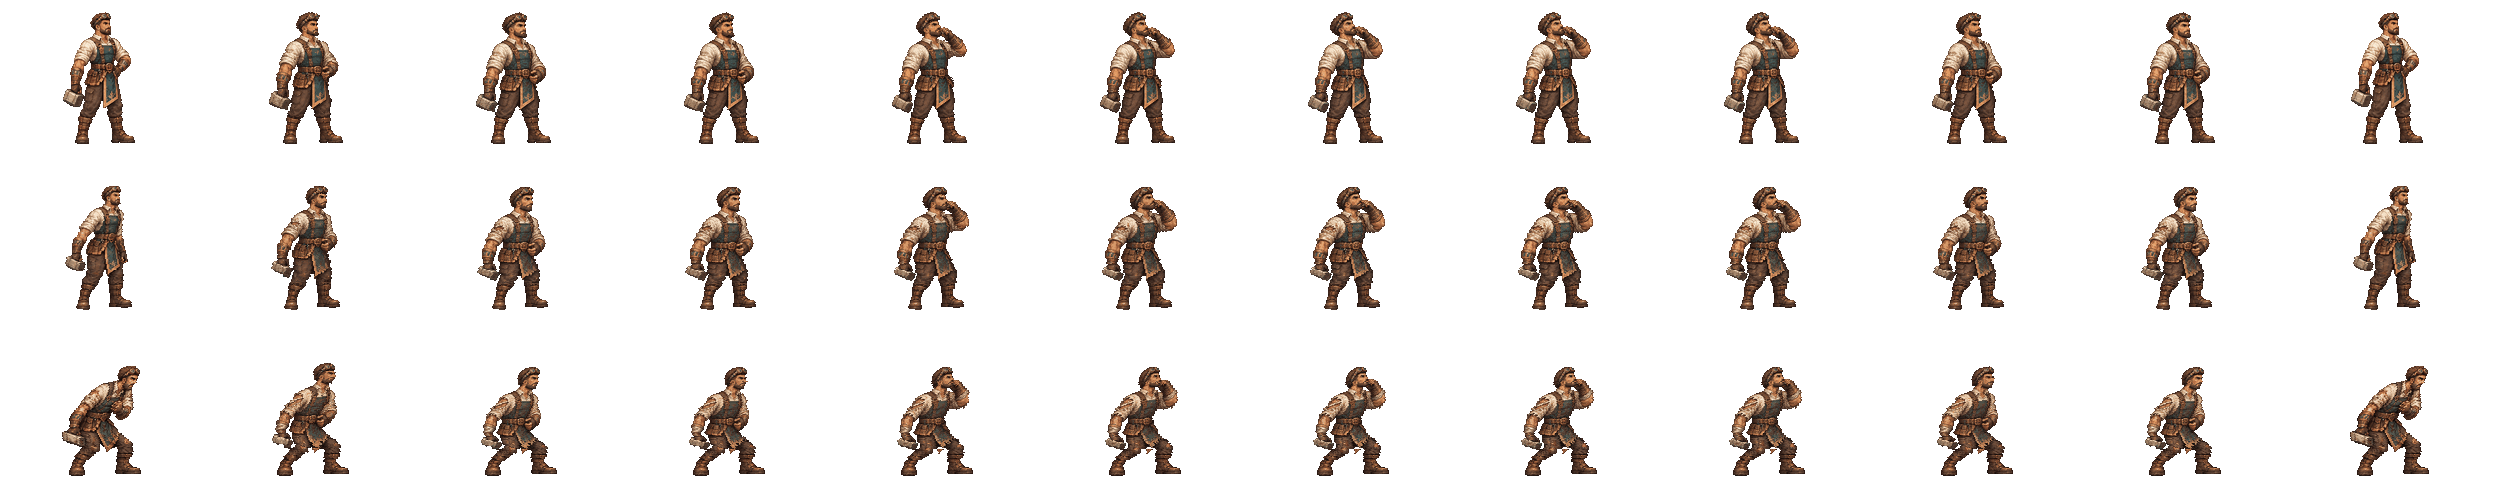
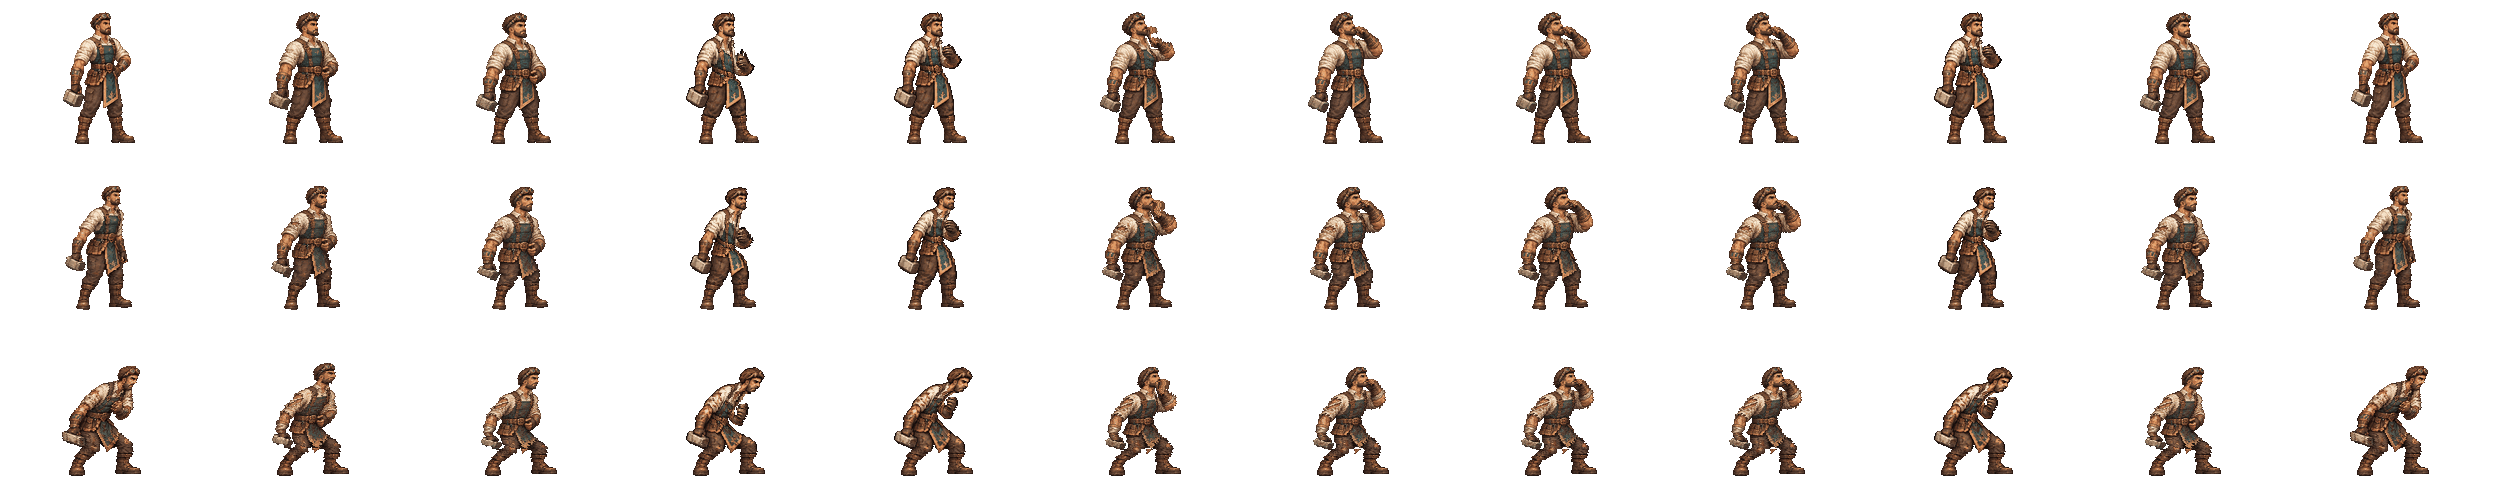
Keep held bottles on the painted hand throughout each sip
Register optional chest-height and quarter-height grip exposures for the Artificer wardrobe. Pin the bottle neck to each cel as its tilt settles, validate the published support masters and exercise mirrored grips in the desktop arena.

diff --git a/e2e/desktop-props.spec.js b/e2e/desktop-props.spec.js
@@ -3,7 +3,7 @@ import { applyCommand, createMatch, sandboxEdit } from '../src/game/index.js';
 
 const classes = ['guardian', 'berserker', 'chronomancer', 'alchemist'];
 
-function turn(count, index, role, action, band) {
+function turn(count, index, role, action, band, skinId) {
   const players = Array.from({ length: count }, (_, i) => ({
     id: 'seat-' + i, name: 'Fighter ' + i, classId: i === index ? role : classes[i % 4], bot: false,
   }));
@@ -14,6 +14,7 @@ function turn(count, index, role, action, band) {
     if (state.activeId === viewerId) break;
   }
   if (action !== 'scavenge') state = sandboxEdit(state, { type: 'grant', playerId: viewerId, rewardId: action });
+  if (skinId) state = sandboxEdit(state, { type: 'skin', playerId: viewerId, skinId });
   const fighter = state.players.find(p => p.id === viewerId);
   const hp = Math.round(fighter.maxHp * ({ healthy: 1, wounded: .49, critical: .2 })[band]);
   state = sandboxEdit(state, { type: 'stat', playerId: viewerId, stat: 'hp', value: hp });
@@ -33,9 +34,31 @@ async function play(page, save, action) {
     return (await preloadArenaSkins([actor],{layers,withEffects:true})).every(Boolean);
   },{actor,layers});
   expect(loaded).toBe(true);
-  await page.evaluate(() => {
+  await page.evaluate(async () => {
+    const {fighterAnchors, resolveFighterSkin} = await import('/fighter-kit.js');
     const world = document.querySelector('.arena-world');
-    const data = window.propSample = { lid: [], pickedUp: false, legacyProps: false };
+    const data = window.propSample = { lid: [], pickedUp: false, legacyProps: false, gripFrames: [], gripError: 0 };
+    function sampleGrip() {
+      const bottle = world.querySelector('.arena-fx [data-prop="bottle"]');
+      if (bottle) {
+        const actor = bottle.parentElement, sprite = actor.querySelector('.arena-sprite');
+        const cel = getComputedStyle(sprite.querySelector('.arena-cel'));
+        const frame = Math.round(parseFloat(cel.backgroundPositionX) * .11);
+        const style = getComputedStyle(bottle), matrix = new DOMMatrix(style.transform);
+        const [shiftX, shiftY] = style.translate.split(' ').map(parseFloat);
+        const {class: role, skin, tier} = sprite.dataset;
+        const {hand, mouth} = fighterAnchors(role, tier, resolveFighterSkin(role, skin).anchors);
+        const reach = [0,0,0,.25,.5,.75,1,1,1,.5,0,0][frame];
+        const dir = actor.dataset.facing === 'left' ? -1 : 1;
+        const x = ((shiftX || 0) + matrix.e) * dir * 120 / parseFloat(actor.style.width);
+        const y = ((shiftY || 0) + matrix.f) * 120 / parseFloat(actor.style.height);
+        if (!data.gripFrames.includes(frame)) data.gripFrames.push(frame);
+        data.gripError = Math.max(data.gripError, Math.abs(x - (mouth[0]-hand[0])*reach),
+          Math.abs(y - (mouth[1]-hand[1])*reach));
+      }
+      if (!data.done) requestAnimationFrame(sampleGrip);
+    }
+    requestAnimationFrame(sampleGrip);
     const observer = new MutationObserver(() => {
       const scene = world.querySelector('.arena-fx');
       if (!scene) {
@@ -91,21 +114,26 @@ for (const [count, index, role, band] of [[2, 0, 'guardian', 'healthy'], [8, 6, 
   });
 }
 
-for (const [role,band,seat,action,icon] of [
+for (const [role,band,seat,action,icon,skin] of [
   ['guardian','healthy',0,'red-tonic','tonic'],
   ['berserker','critical',1,'antidote','antidote'],
   ['chronomancer','wounded',0,'red-tonic','tonic'],
   ['alchemist','critical',1,'antidote','antidote'],
+  ['artificer','healthy',0,'red-tonic','tonic'],
+  ['artificer','critical',1,'red-tonic','tonic','stormglass-engineer'],
 ]) {
-  test(role + ' lifts and tips its ' + action + ' bottle', async ({page}) => {
-    const sample = (await play(page, turn(2, seat, role, action, band), action)).impact;
+  test((skin || role) + ' lifts and tips its ' + action + ' bottle', async ({page}) => {
+    const trace = await play(page, turn(2, seat, role, action, band, skin), action);
+    const sample = trace.impact;
     expect(sample).toMatchObject({ kind: 'bottle', icon, clip: 'consume', inHand: true, band });
-    expect(sample.sheet).toContain(role + '-consume.webp');
+    expect(sample.sheet).toContain(skin ? skin + '/consume.webp' : role + '-consume.webp');
     expect(sample.cellY).toBe(({ healthy: 0, wounded: 50, critical: 100 })[band]);
     expect(sample.exposure).toBeGreaterThanOrEqual(6);
     expect(sample.bottom).toBeLessThan(.48);
     expect(sample.size).toBeLessThan(.22);
     expect(sample.rotation * (seat === 0 ? -1 : 1)).toBeGreaterThan(.85);
+    expect(trace.gripFrames).toEqual(expect.arrayContaining([4, 6, 9, 10]));
+    expect(trace.gripError).toBeLessThan(1);
   });
 }
 

diff --git a/public/combat-props.js b/public/combat-props.js
@@ -89,13 +89,20 @@ function carried({ ghost, box, frames, duration, score, dir, at, tween }, { hand
   item.style.transformOrigin = (u*100) + '% ' + (v*100) + '%';
   const dx = release.x - grip.x, dy = release.y - grip.y;
   const reaching = [0, 0, 0, .25, .5, .75, 1, 1, 1, .5, 0, 0];
+  if (drinking) {
+    // The fingers hold still until the next illustrated exposure. Let the
+    // bottle rotate around its neck while its grip stays on that drawing.
+    frames.forEach((time, i) => at(time, () => {
+      item.style.translate = dx * reaching[i] + 'px ' + dy * reaching[i] + 'px';
+    }));
+  }
   tween(item, frames.map((time, i) => {
     const reach = reaching[score.gesture === 'use' ? useExposures[i] : i];
     const ring = icon === 'bell' ? [0,0,-3,-4,-5,-3,4,12,-9,4,-2,0][i] : 0;
     const angle = dir * ((drinking ? -104 : -10) * reach + ring);
     return {
       offset: time / duration, opacity: i === 0 || i === 11 ? 0 : i === 1 ? .55 : 1,
-      transform: 'translate(' + dx * reach + 'px,' + dy * reach + 'px) rotate(' + angle + 'deg)',
+      transform: (drinking ? '' : 'translate(' + dx * reach + 'px,' + dy * reach + 'px) ') + 'rotate(' + angle + 'deg)',
     };
   }), duration);
   at(duration, () => item.remove());

diff --git a/scripts/build-costume-skins.py b/scripts/build-costume-skins.py
@@ -264,6 +264,13 @@ def build(id, founder=False):
 
     details_path = pack / 'details.webp'
     details = Image.open(details_path).convert('RGBA') if details_path.is_file() else None
+    lift_path = pack / 'consume-lift.webp'
+    lift = Image.open(lift_path).convert('RGBA') if lift_path.is_file() else None
+    if lift is not None and lift.size not in [(n * CELL[0], len(BANDS) * CELL[1]) for n in (1, 3)]:
+        raise ValueError('A consume lift master must have one or three columns and a row per health band')
+    band_sheets = {'ambient': ambient, 'consume': consume}
+    if lift is not None:
+        band_sheets['consume-lift'] = sheet(layers['consume']['columns'], len(BANDS))
     tracks = TRACKS | DETAILED_TRACKS if details is not None else TRACKS
     for band, name in enumerate(BANDS):
         keys = skin_cels(Image.open(pack / (name + '.webp')).convert('RGBA'))
@@ -275,6 +282,17 @@ def build(id, founder=False):
             # on their marks from the belt pickup through the last exposure.
             keys[16:18] = [founders.planted(keys[0], cel) for cel in drawings[:2]]
             keys.extend(drawings[2:])
+        band_tracks = tracks
+        if lift is not None:
+            start = len(keys)
+            cols = lift.width // CELL[0]
+            keys.extend(founders.planted(keys[0], tile(lift, col, band)) for col in range(cols))
+            # The prop rises over four exposures and returns in two. It passes
+            # the middle grip twice, whichever number of breakdowns was painted.
+            rise = ((4, start),) if cols == 1 else ((3, start), (4, start + 1), (5, start + 2))
+            middle = start + cols // 2
+            band_tracks = tracks | {'consume-lift': ((0, 0), (2, 16), *rise, (6, 17), (8, 17),
+                                                     (9, middle), (10, 16), (11, 0))}
         solver = founders.Inbetweens(keys)
         between = lru_cache(maxsize=None)(solver.between)
         stills = [keys[0], keys[1], keys[2], between(0, 1, .5), keys[5], keys[6], keys[12], keys[13],
@@ -282,9 +300,9 @@ def build(id, founder=False):
         for index, cel in enumerate(stills):
             place(standing, cel, index % 4, band * 3 + index // 4)
         track_rows = layers['motions']['rows']
-        for track, script in tracks.items():
-            dest_sheet = ambient if track == 'ambient' else consume if track == 'consume' else motion
-            row = band if track in ('ambient', 'consume') else band * len(track_rows) + track_rows.index(track)
+        for track, script in band_tracks.items():
+            dest_sheet = band_sheets.get(track, motion)
+            row = band if track in band_sheets else band * len(track_rows) + track_rows.index(track)
             for frame in range(12):
                 (left, a), (right, b) = next((l, r) for l, r in zip(script, script[1:]) if l[0] <= frame <= r[0])
                 cel = between(a, b, (frame - left) / (right - left))
@@ -303,6 +321,10 @@ def build(id, founder=False):
         pixels = np.asarray(image)
         samples.append(pixels[pixels[:, :, 3] > 0, :3][::4])
     palette = Image.fromarray(np.concatenate(samples).reshape((-1, 1, 3))).quantize(colors=250)
+    if lift is not None:
+        # The extra grip uses the established costume palette, so adjusting a
+        # support gesture cannot change the colors of the other packed layers.
+        sheets['consume'] = band_sheets['consume-lift']
     for name, image in sheets.items():
         packed = image.convert('RGB').quantize(palette=palette, dither=Image.Dither.NONE).convert('RGBA')
         packed.putalpha(image.getchannel('A'))

diff --git a/scripts/check-fighter-skins.py b/scripts/check-fighter-skins.py
@@ -58,6 +58,26 @@ def check(skin):
     for layer in LAYOUT['layers']:
         if layer in skin:
             total += check_layer(PUBLIC / skin[layer].lstrip('/'), layer)
+    look = skin['classId'] if skin['id'] == 'founder' else skin['id']
+    lift = PUBLIC.parent / 'scripts' / 'art' / 'costumes' / look / 'consume-lift.webp'
+    if lift.is_file():
+        # The smooth planting pass affects only the hips and boots. The
+        # upper-body silhouette must match the artist's grip on both passes.
+        w, h = CELL
+        with Image.open(lift) as master, Image.open(PUBLIC / skin['consume'].lstrip('/')) as strip:
+            if master.size not in [(w, BANDS * h), (3 * w, BANDS * h)]:
+                raise ValueError(f'{look}: wrong consume lift dimensions {master.size}')
+            reference = master.convert('RGBA').getchannel('A')
+            packed = strip.convert('RGBA').getchannel('A')
+            cols = master.width // w
+            holds = [(4, 0), (9, 0)] if cols == 1 else [(3, 0), (4, 1), (5, 2), (9, 1)]
+            for band in range(BANDS):
+                y = band * h
+                for frame, col in holds:
+                    upper = reference.crop((col * w, y, (col + 1) * w, y + 96))
+                    pose = packed.crop((frame * w, y, (frame + 1) * w, y + 96))
+                    if ImageChops.difference(upper, pose).getbbox():
+                        raise ValueError(f'{look}: consume frame {frame} misses the painted lift in band {band}')
     for layer, pose in [('collapse','fallen'), ('celebrate','victory')]:
         if layer not in skin:
             continue

diff --git a/docs/fighter-skins.md b/docs/fighter-skins.md
@@ -156,6 +156,8 @@ python scripts/build-idle-performances.py --role gambler --skin founder
 
 Measure the occupied waist in the rest pose, the hand and mouth in the two empty-grip poses, and the cache beside the reaching hand. Register those four points for each health band. A painted weapon remains with its outfit through every take. Acquired trinkets and held consumables use the shared renderer at the measured sockets.
 
+For a long reach from belt to lips, add `consume-lift.webp` beside the costume masters. Use 208 × 166 cels with one row per health band. A single column holds the empty grip halfway between that band's hand and mouth sockets. For a longer lift, paint three columns with the grip at one-quarter, one-half and three-quarters of the reach. Plant the boots on their idle marks. The builder uses the middle drawing on the rise at exposure 4 and again on the return at exposure 9.
+
 ### Registering the art
 
 The runtime and atlas builder read the frame layout, artistic defaults and skin registrations in [fighter-kit.json](../public/fighter-kit.json). Place alternate artwork under `public/assets/skins/` and append a descriptor to the manifest’s `skins` array. IDs start with a lowercase letter and support lowercase letters and digits separated by single hyphens, up to 40 characters total.
